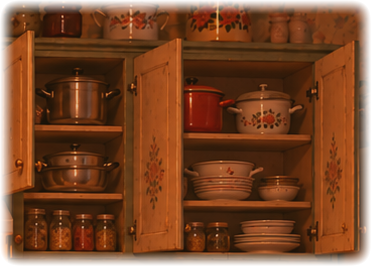
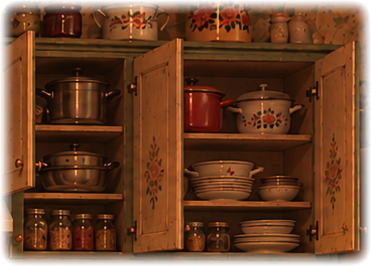
Küchenlicht aus dem dunklen Bild errechnet, nichts verschiebt sich mehr

diff --git a/quest-ostern.html b/quest-ostern.html
@@ -478,7 +478,7 @@
     { id: 'e15', ansicht: 'garten',     x: 1310, y: 250, r: 11, farbe: '#d08a5a', muster: 'zickzack', ebene: 2, sichtbarWenn: 'vogelhaus_offen' },
     // --- Ebene 3: nur nach Rätsel sichtbar ---
     { id: 'e16', ansicht: 'wohnzimmer', x: 1150, y: 600, r: 8,  farbe: '#cfc0a4', muster: 'streifen', ebene: 1, sichtbarWenn: null },  // bei den Heften unter dem Couchtisch
-    { id: 'e17', ansicht: 'kueche',     x: 955,  y: 602, r: 9,  farbe: '#a8702e', muster: 'punkte', ebene: 2, sichtbarWenn: ['k_ofen_offen', 'kueche_licht'] },  // auf dem Rost im Backofen
+    { id: 'e17', ansicht: 'kueche',     x: 955,  y: 602, r: 9,  farbe: '#5a4a38', muster: 'punkte', ebene: 2, sichtbarWenn: ['k_ofen_offen', 'kueche_licht'] },  // auf dem Rost im Backofen
     { id: 'e18', ansicht: 'garten',     x: 270,  y: 600, r: 12, farbe: '#5a4030', muster: 'zickzack', ebene: 2, sichtbarWenn: 'busch_geteilt' },
     { id: 'e19', ansicht: 'dachboden',  x: 330,  y: 650, r: 12, farbe: '#3a342c', muster: 'streifen', ebene: 2, sichtbarWenn: 'dach_kiste_offen' },
     { id: 'e20', ansicht: 'dachboden',  x: 860,  y: 490, r: 12, farbe: '#55556a', muster: 'punkte', ebene: 1, sichtbarWenn: null }

diff --git a/UEBERGABE-OSTERN.md b/UEBERGABE-OSTERN.md
@@ -322,10 +322,26 @@ macht daraus ein PNG mit Alphakanal:
 Im Spiel wird so ein Flicken mit `patch` und `patchX/Y/W/H` eingeblendet.
 Die Klickfläche des Teils bleibt davon unabhängig.
 
+### c) Licht aus dem dunklen Bild ableiten
+Für die Küche ging auch b) nicht sauber: Das dunkle und das helle Bild sind
+getrennt erzeugt, und dabei haben sich Gegenstände in der Grösse verändert —
+der Samowar auf der Arbeitsfläche war im hellen Bild deutlich grösser. Beim
+Lichtschalten wären die Dinge gewachsen.
+
+Lösung: Das helle Grundbild wird **aus dem dunklen errechnet**. Dazu wird aus
+dem echten hellen Bild nur die Beleuchtung übernommen, nicht die Zeichnung —
+ein stark weichgezeichnetes Verhältnis der beiden Bilder pro Farbkanal, das als
+Faktor auf das dunkle Bild gelegt wird. Das Ergebnis ist warm beleuchtet und
+geometrisch identisch mit dem dunklen Bild. Backofen- und Kühlschrankinneres
+werden zusätzlich lokal aufgehellt, weil die Beleuchtungskarte davon nichts weiss.
+
+Damit stammen beide Küchen-Grundbilder und alle sechzehn Flicken aus derselben
+Bildfamilie. Beim Lichtschalten bewegt sich nichts mehr.
+
 ### Für neue Bilder
 Am besten wäre, die Varianten eines Raums als Bearbeitung desselben Bildes zu
 erzeugen statt als neue Generierung. Dann passen Muster und Farben exakt und
-Verfahren a) reicht. Wenn das nicht geht, ist b) nötig.
+Verfahren a) reicht. Sonst b), und bei Licht-/Dunkel-Paaren c).
 
 ## 7. ARBEITSWEISE KNOX
 
